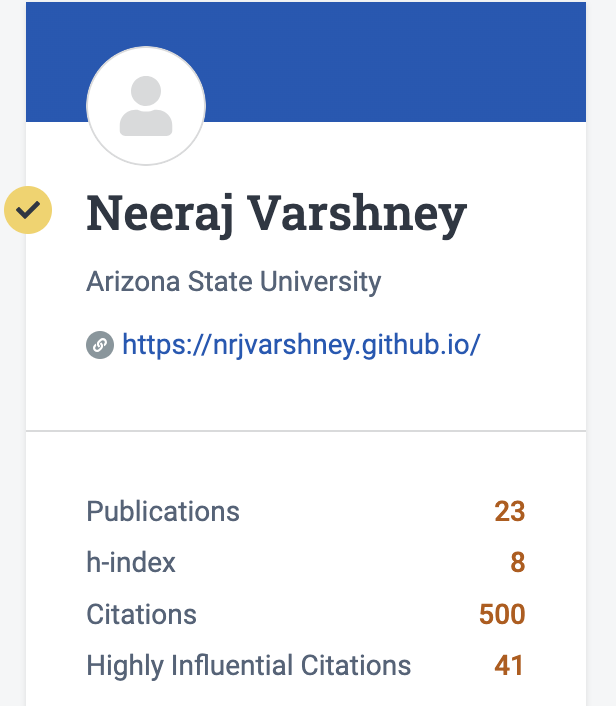
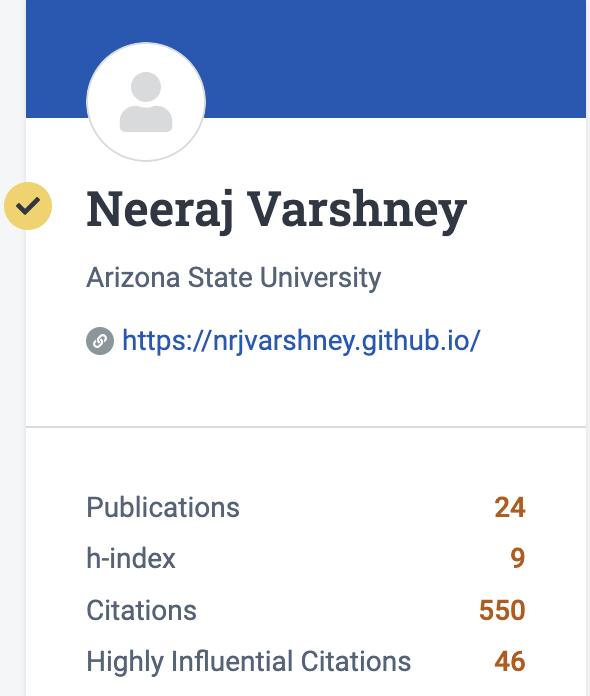
adding citations news

diff --git a/index.html b/index.html
@@ -198,6 +198,21 @@
 <div class="news mt-3 p-0">
   <h1 class="title mb-4 p-0">News</h1>
 
+  <div class="row p-0">      
+      <div class="col-sm-2 p-0">
+        <span class="badge danger-color-dark font-weight-bold text-uppercase align-middle date ml-3">
+         Nov 10, 2023
+        </span>
+      </div>
+      <div class="col-sm-10 mt-2 mt-sm-0 ml-3 ml-md-3 p-0 font-weight-light text">
+        <p>Milestone: <b>550</b> citations.
+          <style type="text/css"> .pha { width: 40%; right: 8.2%; top: 18.5%; } </style>
+                    <div class="pha"><img src = "./assets/img/citations.png" style="width:100%;" ></div>
+        </p>
+      </div>
+    </div>
+
+
 
     <div class="row p-0">      
       <div class="col-sm-2 p-0">
@@ -211,20 +226,6 @@
       </div>
     </div>
     
-
-    <div class="row p-0">      
-      <div class="col-sm-2 p-0">
-        <span class="badge danger-color-dark font-weight-bold text-uppercase align-middle date ml-3">
-         Oct 18, 2023
-        </span>
-      </div>
-      <div class="col-sm-10 mt-2 mt-sm-0 ml-3 ml-md-3 p-0 font-weight-light text">
-        <p>Milestone: <b>500</b> citations.
-          <style type="text/css"> .pha { width: 40%; right: 8.2%; top: 18.5%; } </style>
-                    <div class="pha"><img src = "./assets/img/citations.png" style="width:100%;" ></div>
-        </p>
-      </div>
-    </div>
 
     <div class="row p-0">      
       <div class="col-sm-2 p-0">
